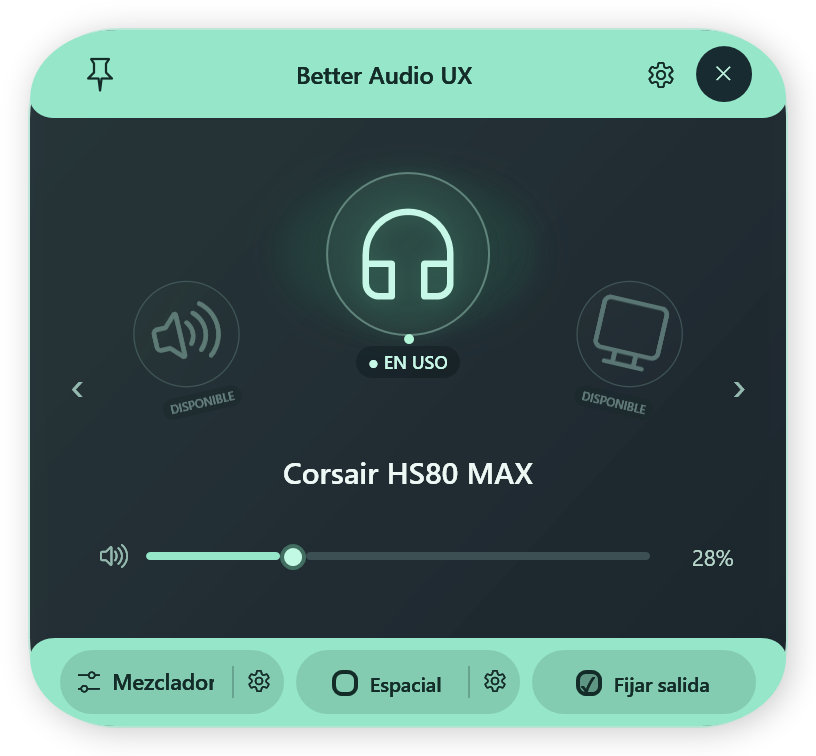
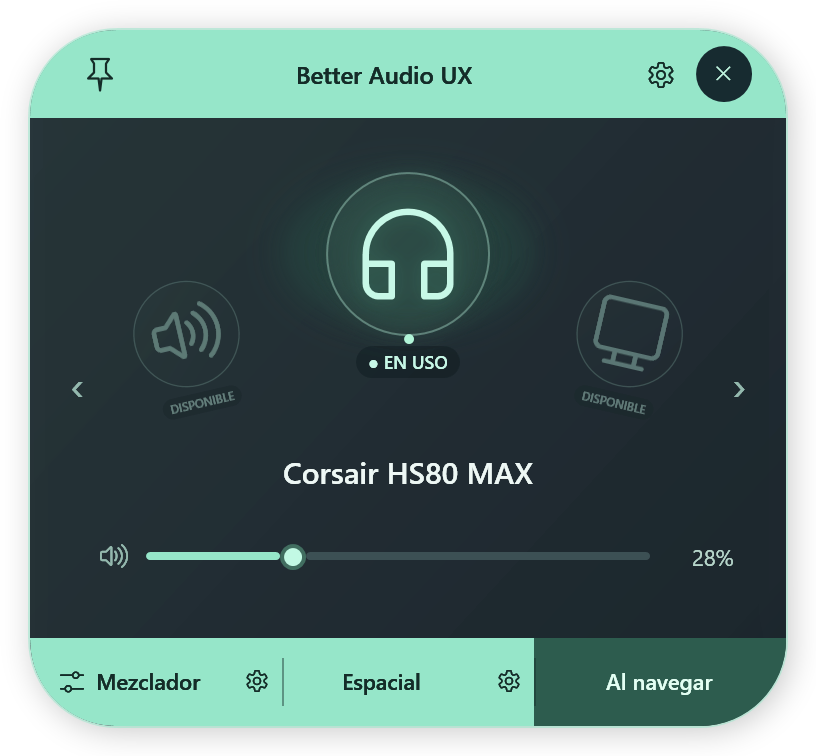
Stabilize HUD reveal and divide footer into full-section toggles

diff --git a/AudioFlyoutApp/UI/Flyout/FlyoutWindow.xaml b/AudioFlyoutApp/UI/Flyout/FlyoutWindow.xaml
@@ -10,7 +10,7 @@
         <BooleanToVisibilityConverter x:Key="VisibleIf"/>
         <Style x:Key="FooterGroupButton" TargetType="Button">
             <Setter Property="Foreground" Value="#142C28"/><Setter Property="Cursor" Value="Hand"/><Setter Property="Padding" Value="9,6"/>
-            <Setter Property="Template"><Setter.Value><ControlTemplate TargetType="Button"><Border x:Name="Surface" Background="Transparent" CornerRadius="15,0,0,15" Padding="{TemplateBinding Padding}"><ContentPresenter VerticalAlignment="Center" HorizontalAlignment="Center"/></Border><ControlTemplate.Triggers><Trigger Property="IsMouseOver" Value="True"><Setter TargetName="Surface" Property="Background" Value="#25142C28"/></Trigger><Trigger Property="IsKeyboardFocused" Value="True"><Setter TargetName="Surface" Property="Background" Value="#25142C28"/></Trigger></ControlTemplate.Triggers></ControlTemplate></Setter.Value></Setter>
+            <Setter Property="Template"><Setter.Value><ControlTemplate TargetType="Button"><Border x:Name="Surface" Background="Transparent" CornerRadius="0" Padding="{TemplateBinding Padding}"><ContentPresenter VerticalAlignment="Center" HorizontalAlignment="Center"/></Border><ControlTemplate.Triggers><Trigger Property="IsMouseOver" Value="True"><Setter TargetName="Surface" Property="Background" Value="#25142C28"/></Trigger><Trigger Property="IsKeyboardFocused" Value="True"><Setter TargetName="Surface" Property="Background" Value="#25142C28"/></Trigger></ControlTemplate.Triggers></ControlTemplate></Setter.Value></Setter>
         </Style>
         <Style x:Key="FooterIconButton" TargetType="Button">
             <Setter Property="Foreground" Value="#142C28"/><Setter Property="Cursor" Value="Hand"/>
@@ -24,18 +24,14 @@
             </ControlTemplate></Setter.Value></Setter>
         </Style>
         <Style x:Key="FooterCheckBox" TargetType="CheckBox">
-            <Setter Property="Foreground" Value="#142C28"/><Setter Property="FontSize" Value="10"/><Setter Property="FontWeight" Value="SemiBold"/><Setter Property="Cursor" Value="Hand"/>
+            <Setter Property="Foreground" Value="#142C28"/><Setter Property="FontSize" Value="11"/><Setter Property="FontWeight" Value="SemiBold"/><Setter Property="Cursor" Value="Hand"/>
+            <Setter Property="HorizontalContentAlignment" Value="Center"/><Setter Property="VerticalContentAlignment" Value="Center"/>
             <Setter Property="Template"><Setter.Value><ControlTemplate TargetType="CheckBox">
-                <StackPanel Orientation="Horizontal" Background="Transparent" VerticalAlignment="Center">
-                    <Border x:Name="CheckSurface" Width="13" Height="13" CornerRadius="4" BorderBrush="#142C28" BorderThickness="1.5" Margin="0,0,6,0" VerticalAlignment="Center">
-                        <TextBlock x:Name="Tick" Text="✓" FontSize="10" FontWeight="Bold" Foreground="#142C28" Visibility="Collapsed" HorizontalAlignment="Center" VerticalAlignment="Center" Margin="0,-1,0,0"/>
-                    </Border>
-                    <ContentPresenter VerticalAlignment="Center"/>
-                </StackPanel>
+                <Border x:Name="Section" Background="Transparent" Padding="6,0"><ContentPresenter HorizontalAlignment="Center" VerticalAlignment="Center"/></Border>
                 <ControlTemplate.Triggers>
-                    <Trigger Property="IsChecked" Value="True"><Setter TargetName="CheckSurface" Property="Background" Value="#55142C28"/><Setter TargetName="Tick" Property="Visibility" Value="Visible"/></Trigger>
-                    <Trigger Property="IsMouseOver" Value="True"><Setter Property="Foreground" Value="#284E44"/></Trigger>
-                    <Trigger Property="IsKeyboardFocused" Value="True"><Setter TargetName="CheckSurface" Property="BorderBrush" Value="#091815"/><Setter Property="Foreground" Value="#091815"/></Trigger>
+                    <Trigger Property="IsChecked" Value="True"><Setter TargetName="Section" Property="Background" Value="#2D5C4E"/><Setter Property="Foreground" Value="#E3FFF3"/></Trigger>
+                    <Trigger Property="IsMouseOver" Value="True"><Setter TargetName="Section" Property="Opacity" Value="0.8"/></Trigger>
+                    <Trigger Property="IsKeyboardFocused" Value="True"><Setter TargetName="Section" Property="BorderBrush" Value="#183C30"/><Setter TargetName="Section" Property="BorderThickness" Value="1"/></Trigger>
                     <Trigger Property="IsEnabled" Value="False"><Setter Property="Opacity" Value="0.4"/></Trigger>
                 </ControlTemplate.Triggers>
             </ControlTemplate></Setter.Value></Setter>
@@ -123,7 +119,7 @@
         <Border.RenderTransform><TransformGroup><ScaleTransform x:Name="RevealScale"/><TranslateTransform x:Name="RevealOffset"/></TransformGroup></Border.RenderTransform>
         <Grid>
         <Grid.RowDefinitions><RowDefinition Height="44"/><RowDefinition/><RowDefinition Height="Auto"/></Grid.RowDefinitions>
-        <Border CornerRadius="43,43,12,12" Background="#96E6C9"><Grid Margin="17,4">
+        <Border CornerRadius="43,43,0,0" Background="#96E6C9"><Grid Margin="17,4">
             <Button x:Name="PinButton" Style="{StaticResource HeaderButton}" Foreground="#142C28" HorizontalAlignment="Left" Click="Pin_Click" ToolTip="Fijar panel: mantener abierto al usar otra aplicación" AutomationProperties.Name="Fijar o desfijar panel"><Viewbox Width="18" Height="18"><Path x:Name="PinShape" Data="M 6,2 L 18,2 L 16,5 L 16,11 L 20,15 L 13,15 L 12,23 L 11,15 L 4,15 L 8,11 L 8,5 Z" Stroke="#142C28" StrokeThickness="1.5" Fill="Transparent" StrokeLineJoin="Round"/></Viewbox></Button>
             <TextBlock Text="Better Audio UX" Foreground="#142C28" FontWeight="SemiBold" FontSize="12" HorizontalAlignment="Center" VerticalAlignment="Center" Margin="0,0,24,0"/>
                         <StackPanel Orientation="Horizontal" HorizontalAlignment="Right" VerticalAlignment="Center">
@@ -185,32 +181,32 @@
 
             <TextBlock Grid.Row="3" Text="{Binding Message}" Foreground="#EBC9AA" Background="#ED17242B" FontSize="9" TextAlignment="Center" TextWrapping="Wrap" VerticalAlignment="Top" MaxWidth="330" Margin="0,2,0,0" Visibility="{Binding HasMessage, Converter={StaticResource VisibleIf}}" AutomationProperties.LiveSetting="Polite"/>
         </Grid>
-        <Border Grid.Row="2" CornerRadius="12,12,43,43" Background="#96E6C9" Height="44">
+        <Border Grid.Row="2" CornerRadius="0,0,43,43" Background="#96E6C9" Height="44" SizeChanged="Footer_SizeChanged">
             <Border.Style><Style TargetType="Border"><Style.Triggers><DataTrigger Binding="{Binding IsMixerOpen}" Value="True"><Setter Property="Visibility" Value="Collapsed"/></DataTrigger></Style.Triggers></Style></Border.Style>
-            <Grid Margin="12,0">
+            <Grid Margin="0">
                 <Grid.ColumnDefinitions>
                     <ColumnDefinition Width="*"/>
                     <ColumnDefinition Width="*"/>
                     <ColumnDefinition Width="*"/>
                 </Grid.ColumnDefinitions>
-                <Border Grid.Column="0" CornerRadius="16" Background="#26142C28" Margin="3,6">
+                <Border Grid.Column="0" Background="Transparent" Margin="0">
                     <Grid>
                         <Grid.ColumnDefinitions><ColumnDefinition/><ColumnDefinition Width="26"/></Grid.ColumnDefinitions>
                         <Button Style="{StaticResource FooterGroupButton}" Click="Mixer_Click" AutomationProperties.Name="Abrir mezclador integrado" HorizontalAlignment="Stretch"><StackPanel Orientation="Horizontal" HorizontalAlignment="Center"><TextBlock Text="&#xE9E9;" FontFamily="Segoe Fluent Icons, Segoe MDL2 Assets" FontSize="12" Margin="0,0,6,0" VerticalAlignment="Center"/><TextBlock Text="Mezclador" FontSize="11" FontWeight="SemiBold" VerticalAlignment="Center"/></StackPanel></Button>
-                        <Border Grid.Column="1" Width="1" Height="16" Background="#40142C28" HorizontalAlignment="Left" VerticalAlignment="Center"/>
                         <Button Grid.Column="1" Style="{StaticResource FooterIconButton}" Click="MixerSettings_Click" Content="&#xE713;" FontFamily="Segoe Fluent Icons, Segoe MDL2 Assets" FontSize="11" ToolTip="Mezclador de Windows" AutomationProperties.Name="Abrir configuración del mezclador en Windows"/>
                     </Grid>
                 </Border>
-                <Border Grid.Column="1" CornerRadius="16" Background="#26142C28" Margin="3,6">
+                <Border Grid.Column="1" Margin="0"><Border.Style><Style TargetType="Border"><Setter Property="Background" Value="Transparent"/><Style.Triggers><DataTrigger Binding="{Binding SpatialEnabled}" Value="True"><Setter Property="Background" Value="#2D5C4E"/></DataTrigger></Style.Triggers></Style></Border.Style>
                     <Grid>
                         <Grid.ColumnDefinitions><ColumnDefinition/><ColumnDefinition Width="26"/></Grid.ColumnDefinitions>
-                        <CheckBox Style="{StaticResource FooterCheckBox}" Content="Espacial" Margin="8,0,4,0" IsChecked="{Binding SpatialEnabled, Mode=OneWay}" IsEnabled="{Binding CanToggleSpatial}" Click="SpatialToggle_Click" ToolTip="{Binding SpatialHint}" ToolTipService.ShowOnDisabled="True" HorizontalAlignment="Center" VerticalAlignment="Center" AutomationProperties.Name="Activar o desactivar sonido espacial"/>
-                        <Border Grid.Column="1" Width="1" Height="16" Background="#40142C28" HorizontalAlignment="Left" VerticalAlignment="Center"/>
+                        <CheckBox Style="{StaticResource FooterCheckBox}" Content="Espacial" Margin="0" IsChecked="{Binding SpatialEnabled, Mode=OneWay}" IsEnabled="{Binding CanToggleSpatial}" Click="SpatialToggle_Click" ToolTip="{Binding SpatialHint}" ToolTipService.ShowOnDisabled="True" HorizontalAlignment="Stretch" VerticalAlignment="Stretch" AutomationProperties.Name="Activar o desactivar sonido espacial"/>
                         <Button Grid.Column="1" Style="{StaticResource FooterIconButton}" Click="Spatial_Click" IsEnabled="{Binding HasDevices}" Content="&#xE713;" FontFamily="Segoe Fluent Icons, Segoe MDL2 Assets" FontSize="11" ToolTip="Proveedores y propiedades de sonido espacial en Windows" AutomationProperties.Name="Configurar sonido espacial en Windows"/>
                     </Grid>
                 </Border>
-                <Border Grid.Column="2" CornerRadius="16" Background="#26142C28" Margin="3,6">
-                    <CheckBox Style="{StaticResource FooterCheckBox}" Content="Fijar salida" Margin="6,0" IsChecked="{Binding AutoSwitchOnNavigation, Mode=TwoWay}" HorizontalAlignment="Center" VerticalAlignment="Center" ToolTip="Cambia la salida automáticamente al recorrer el arco. Desmarcá para elegir con Enter o clic." AutomationProperties.Name="Fijar salida al navegar"/>
+                <Border Grid.Column="1" Width="1" Height="24" Background="#70142C28" HorizontalAlignment="Left" IsHitTestVisible="False" Panel.ZIndex="3"/>
+                <Border Grid.Column="2" Width="1" Height="24" Background="#70142C28" HorizontalAlignment="Left" IsHitTestVisible="False" Panel.ZIndex="3"/>
+                <Border Grid.Column="2" Background="Transparent" Margin="0">
+                    <CheckBox Style="{StaticResource FooterCheckBox}" Content="Al navegar" Margin="0" IsChecked="{Binding AutoSwitchOnNavigation, Mode=TwoWay}" HorizontalAlignment="Stretch" VerticalAlignment="Stretch" ToolTip="Cambia la salida automáticamente al recorrer el arco. Desmarcá para elegir con Enter o clic." AutomationProperties.Name="Fijar salida al navegar"/>
                 </Border>
             </Grid>
         </Border>
@@ -256,11 +252,3 @@
         </Grid>
     </Border>
 </Window>
-
-
-
-
-
-
-
-

diff --git a/AudioFlyoutApp/UI/Flyout/FlyoutWindow.xaml.cs b/AudioFlyoutApp/UI/Flyout/FlyoutWindow.xaml.cs
@@ -74,8 +74,10 @@ public partial class FlyoutWindow : Window
         RevealScale.BeginAnimation(System.Windows.Media.ScaleTransform.ScaleXProperty, null);
         RevealScale.BeginAnimation(System.Windows.Media.ScaleTransform.ScaleYProperty, null);
         RevealOffset.BeginAnimation(System.Windows.Media.TranslateTransform.YProperty, null);
-        Opacity = SystemParameters.ClientAreaAnimation ? 0 : 1;
-        RevealScale.ScaleX = RevealScale.ScaleY = SystemParameters.ClientAreaAnimation ? .94 : 1;
+        Opacity = 1;
+        HudSurface.BeginAnimation(OpacityProperty, null);
+        HudSurface.Opacity = SystemParameters.ClientAreaAnimation ? 0 : 1;
+        RevealScale.ScaleX = RevealScale.ScaleY = 1;
         RevealOffset.Y = 0;
         NativeWindow.SetInteractive(this, IsPinned);
         // HWND creation can report its provisional monitor-sized bounds back to
@@ -87,20 +89,12 @@ public partial class FlyoutWindow : Window
         // Reposition after Show has applied the destination monitor's DPI.
         var placement = NativeWindow.Position(this, anchor);
         HudSurface.RenderTransformOrigin = new Point(placement.OriginX, placement.Above ? 1 : 0);
-        IsOpening = false;
         if (IsPinned) { if (!IsActive) Activate(); Focus(); }
+        IsOpening = false;
         _carouselWheel = 0; _volumeWheel = 0;
         if (SystemParameters.ClientAreaAnimation)
-        {
-            Opacity = 1;
-            BeginAnimation(OpacityProperty, new DoubleAnimation(0, 1, TimeSpan.FromMilliseconds(180)) { FillBehavior = FillBehavior.Stop });
-            RevealScale.ScaleX = RevealScale.ScaleY = 1;
-            var reveal = new DoubleAnimation(.94, 1, TimeSpan.FromMilliseconds(230)) { EasingFunction = new CubicEase { EasingMode = EasingMode.EaseOut }, FillBehavior = FillBehavior.Stop };
-            RevealScale.BeginAnimation(System.Windows.Media.ScaleTransform.ScaleXProperty, reveal);
-            RevealScale.BeginAnimation(System.Windows.Media.ScaleTransform.ScaleYProperty, reveal);
-            RevealOffset.BeginAnimation(System.Windows.Media.TranslateTransform.YProperty,
-                new DoubleAnimation(placement.Above ? 10 : -10, 0, TimeSpan.FromMilliseconds(210)) { EasingFunction = new CubicEase { EasingMode = EasingMode.EaseOut } });
-        }
+            HudSurface.BeginAnimation(OpacityProperty, new DoubleAnimation(0, 1, TimeSpan.FromMilliseconds(170))
+            { EasingFunction = new CubicEase { EasingMode = EasingMode.EaseOut } });
     }
 
     private IntPtr WindowProc(IntPtr handle, int message, IntPtr wParam, IntPtr lParam, ref bool handled)
@@ -129,7 +123,10 @@ public partial class FlyoutWindow : Window
         _presentationVersion++;
         IsOpening = false;
         if (!IsVisible) return;
-        Hide(); IsPinned = false; KeepOpen = false; UpdatePin();
+        Hide();
+        HudSurface.BeginAnimation(OpacityProperty, null);
+        HudSurface.Opacity = 0;
+        IsPinned = false; KeepOpen = false; UpdatePin();
         _ = ViewModel.CloseMixerAsync();
         Dismissed?.Invoke(this, EventArgs.Empty);
     }
@@ -149,7 +146,28 @@ public partial class FlyoutWindow : Window
         if (sender is ScrollViewer list) { list.ScrollToVerticalOffset(list.VerticalOffset - e.Delta * .4); e.Handled = true; }
     }
     private void Close_Click(object sender, RoutedEventArgs e) => Dismiss();
-    private void Window_Deactivated(object? sender, EventArgs e) { if (IsPinned && !KeepOpen) Dismiss(); }
+    private void Footer_SizeChanged(object sender, SizeChangedEventArgs e)
+    {
+        // Border clips its background, but not children. Keep the section fills
+        // inside the rounded outside corners while the inside edge stays flat.
+        var surface = (Border)sender;
+        var width = e.NewSize.Width;
+        var height = e.NewSize.Height;
+        var radius = Math.Min(43, Math.Min(width / 2, height));
+        var clip = new System.Windows.Media.StreamGeometry();
+        using (var path = clip.Open())
+        {
+            path.BeginFigure(new Point(0, 0), true, true);
+            path.LineTo(new Point(width, 0), true, false);
+            path.LineTo(new Point(width, height - radius), true, false);
+            path.ArcTo(new Point(width - radius, height), new Size(radius, radius), 0, false, System.Windows.Media.SweepDirection.Clockwise, true, false);
+            path.LineTo(new Point(radius, height), true, false);
+            path.ArcTo(new Point(0, height - radius), new Size(radius, radius), 0, false, System.Windows.Media.SweepDirection.Clockwise, true, false);
+        }
+        clip.Freeze();
+        surface.Clip = clip;
+    }
+    private void Window_Deactivated(object? sender, EventArgs e) { if (IsPinned && !KeepOpen && !IsOpening) Dismiss(); }
     private void Previous_Click(object sender, RoutedEventArgs e) => ViewModel.MoveSelection(-1);
     private void Next_Click(object sender, RoutedEventArgs e) => ViewModel.MoveSelection(1);
     private async void Device_Click(object sender, RoutedEventArgs e)
@@ -241,6 +259,3 @@ public partial class FlyoutWindow : Window
     }
     public void CloseForExit() { _allowClose = true; ViewModel.PropertyChanged -= ViewModel_Changed; Close(); }
 }
-
-
-

diff --git a/AudioFlyoutApp.Tests/Program.cs b/AudioFlyoutApp.Tests/Program.cs
@@ -261,6 +261,15 @@ internal static class Program
         Check(window.IsOpening && !window.IsVisible && audio.ReadCalls == 1, "Hover/click during opening prepares a single hidden frame");
         window.Dismiss(); await Task.Delay(180);
         Check(!window.IsOpening && !window.IsVisible, "Cancelling a pending opening prevents a stale refresh from showing the HUD later");
+        window.Present(false, new System.Drawing.Point(500, 500));
+        await Task.Delay(150);
+        Check(window.IsVisible && !window.IsOpening && window.Opacity == 1 && !window.HasAnimatedProperties,
+            "Opening keeps the native transparent window opaque and animates only its content");
+        await Task.Delay(230);
+        var surface = (System.Windows.Controls.Border)window.FindName("HudSurface");
+        Check(Math.Abs(surface.Opacity - 1) < .001, "Content reveal reaches full opacity without restarting");
+        window.Dismiss();
+        Check(surface.Opacity == 0, "Dismissal resets the hidden surface before the next opening");
         window.CloseForExit();
     }
     private static async Task AutomaticSwitchAsync(Dispatcher dispatcher)

diff --git a/docs/DEVELOPMENT.md b/docs/DEVELOPMENT.md
@@ -43,13 +43,13 @@ El modo hover se oculta al alejar el puntero. La rueda funciona al colocar el cu
 ## Decisiones técnicas
 
 - .NET 10 LTS en lugar de .NET 8: soporte hasta noviembre de 2028; .NET 8 finaliza su soporte el 10 de noviembre de 2026. [Política oficial](https://dotnet.microsoft.com/en-us/platform/support/policy).
-- WPF para una ventana pequeña, sin WebView ni servicios web; HUD oscuro translúcido de 408 × 366 DIPs (438 DIPs de alto en el mezclador), con borde verde tenue, burbujas circulares y halo central. Los errores agregan 28 DIPs de altura. Las transiciones del arco, hover lateral, volumen y apertura respetan la preferencia de animación de Windows; los controles tienen nombres accesibles.
+- WPF para una ventana pequeña, sin WebView ni servicios web; HUD oscuro translúcido de 408 × 378 DIPs (482 DIPs de alto en el mezclador), con borde verde tenue, burbujas circulares y halo central. Los errores agregan 28 DIPs de altura. Las transiciones del arco, hover lateral, volumen y apertura respetan la preferencia de animación de Windows; los controles tienen nombres accesibles.
 - Icono Win32 identificado por GUID, con `Shell_NotifyIconW` y [posición real vía `Shell_NotifyIconGetRect`](https://learn.microsoft.com/en-us/windows/win32/api/shellapi/nf-shellapi-shell_notifyicongetrect). No depende de campos privados de `NotifyIcon`. El protocolo v4 reemplaza el tooltip nativo por el HUD y permite recuperar el icono al reiniciar Explorer. El menú contextual usa Windows Forms.
 - `NAudio.Wasapi` **3.3.0**, en lugar del metapaquete NAudio. Su API actual incluye `CreateNotificationClient()` para escuchar conexiones, desconexiones, renombrados y cambios de salida. También escuchamos eventos de volumen/silencio. [NAudio](https://github.com/naudio/NAudio).
 - Objetos COM confinados a un hilo de audio; la UI recibe snapshots sin objetos COM. Las actualizaciones se agrupan durante 100 ms y las escrituras de volumen durante 45 ms, conservando dispositivo e identificador de instancia de sesión aunque navegues a otro. El mezclador conserva controles durante actualizaciones, usa orden estable y libera sus notificaciones al cerrarse.
 - Cambio de salida con `IPolicyConfig`, aislado en `ComPolicyConfig.cs`. Es una interfaz **no documentada de Windows** y puede requerir ajustes con futuras versiones. Los fallos se muestran en pantalla y se registran localmente.
 - Lectura espacial con [`ISpatialAudioClient::GetMaxDynamicObjectCount`](https://learn.microsoft.com/en-us/windows/win32/api/spatialaudioclient/nf-spatialaudioclient-ispatialaudioclient-getmaxdynamicobjectcount); cambios mediante **SoundVolumeCommandLine 1.28** de NirSoft, ejecutado sin ventana y con timeout. Se verifica el estado nativo después de cada escritura. El componente se obtuvo del sitio oficial, se conserva sin cambios con sus archivos originales y su SHA-256 se verifica al compilar. El engranaje usa la [URI oficial de propiedades por endpoint](https://learn.microsoft.com/en-us/windows/apps/develop/launch/launch-settings). La app no escribe directamente el Registro.
-- La apertura prepara el estado de audio mientras el HUD está oculto y configura opacidad/tamaño antes del primer frame. Los clics que llegan durante una apertura por hover promueven esa misma apertura. Cancelarla invalida las continuaciones pendientes; no hay un segundo reinicio de la animación después de leer audio.
+- La apertura prepara el estado de audio mientras el HUD está oculto y configura tamaño y opacidad del contenido antes del primer frame. La ventana transparente mantiene opacidad 1; solamente HudSurface hace un fundido de 170 ms, sin escala ni desplazamiento. Los clics que llegan durante una apertura por hover promueven esa misma apertura. Cancelarla invalida las continuaciones pendientes; no hay un segundo reinicio de la animación después de leer audio.
 - Mutex de sesión e IPC local: abrir un segundo ejecutable muestra la instancia existente.
 - Posicionamiento según el monitor del icono, área de trabajo y DPI; cursor como respaldo si Windows todavía no informa un rectángulo visible. Sin hooks globales de teclado/ratón ni sondeo continuo de audio.
 - Publicación `win-x64` independiente con ReadyToRun, sin trimming de WPF ni extracción de un bundle en cada arranque.

diff --git a/README.md b/README.md
@@ -108,7 +108,7 @@ Utiliza NAudio.Wasapi/NAudio.Core (MIT), el runtime de .NET y **SoundVolumeComma
 
 Consultá [THIRD-PARTY-NOTICES.md](THIRD-PARTY-NOTICES.md) y el [readme original de NirSoft](ThirdParty/SoundVolumeCommandLine/readme.txt). Las licencias de las dependencias no conceden una licencia sobre el código propio del proyecto.
 
-## Interfaz con footer integrado 1.2.4
+## Interfaz compacta 1.2.5
 
-El panel cuenta con un footer inferior al 100% con el color del nav para alojar con mejor espacio Mezclador, Espacial y Fijar salida. Los indicadores de estado de los dispositivos ("EN USO" y "DISPONIBLE") cuentan con mayor visibilidad, fondo y tipografía destacada. La vista principal mide 408 × 378 DIPs.
+El footer se divide en tres secciones: Mezclador, Espacial y Al navegar. Las opciones activas colorean su sección completa, sin casillas; los engranajes siguen abriendo sus ajustes de Windows. El encabezado y el footer tienen bordes interiores rectos y conservan las esquinas exteriores redondeadas. La apertura prepara el audio antes de mostrar un único fundido del contenido, sin volver a escalar ni cambiar la opacidad de la ventana. Los indicadores de estado de los dispositivos ("EN USO" y "DISPONIBLE") cuentan con mayor visibilidad, fondo y tipografía destacada. La vista principal mide 408 × 378 DIPs.
 
